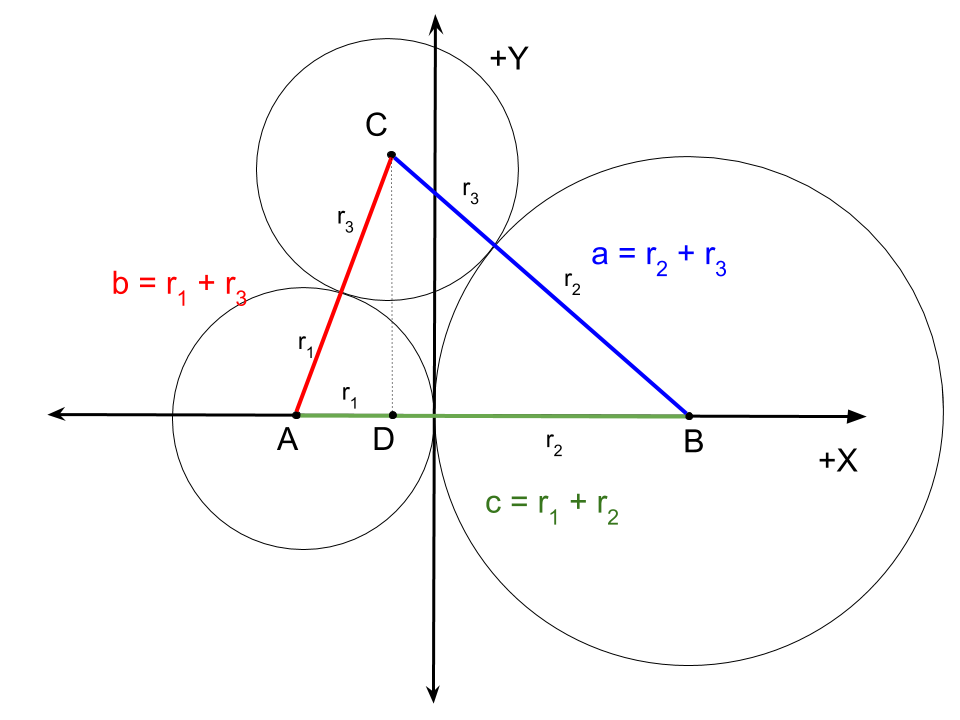
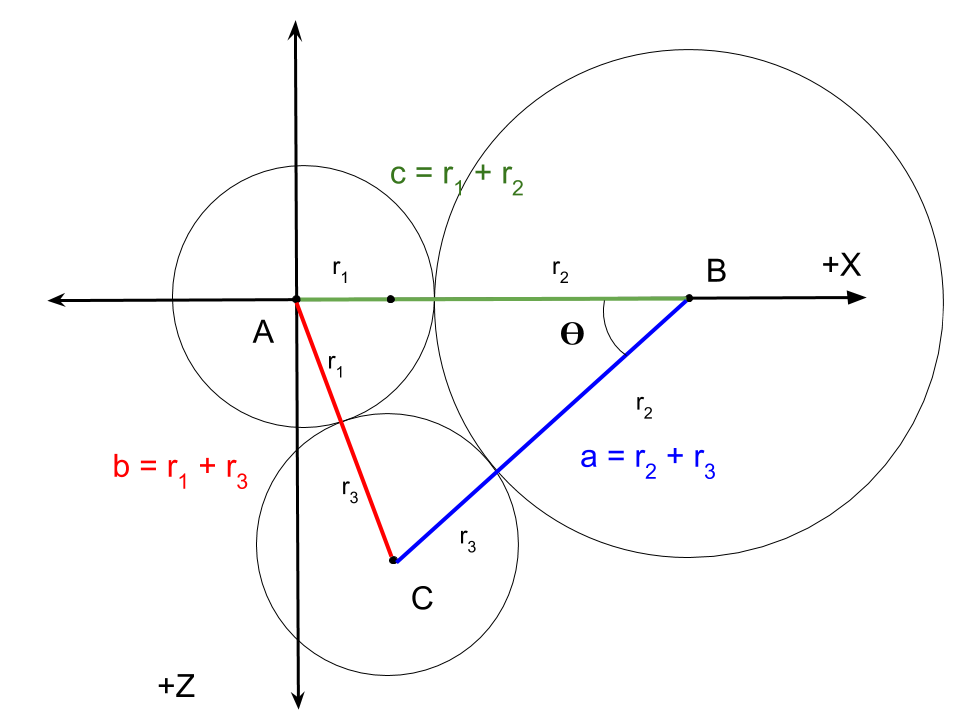
major cleanup

diff --git a/doc/softrobotmath.tex b/doc/softrobotmath.tex
@@ -73,7 +73,7 @@ Knowing the position of these circles is a valuable prelude to solving the three
 
 \begin{figure}
      \centering
-     \includegraphics[width=0.80\textwidth]{figures/ThreeTouchingCircles.png}
+     \includegraphics[width=0.5\textwidth]{figures/ThreeTouchingCircles.png}
      \caption{Three Touching Circles}
   \label{fig:Tangent}
 \end{figure}
@@ -103,27 +103,24 @@ Then we can use the cosine law to compute the angle $\angle ABC = \theta$:
 It is clear that once $\theta$ has been calculated:
 
 \begin{align}
- C_y  &= a\sin{\theta}
+ C_z  &= a\sin{\theta}
 \end{align}
 Allowing us to form a right triangle $\triangle ACD$ and use the Pythagorean theorem:
 \begin{align}
-  b^2  &= C_y^2 + (r_1-C_x)^2 \\
-  b^2 - C_y^2  &= (r_1-C_x)^2  \\
-  \sqrt{b^2 - C_y^2}  &= r_1-C_x  \\
-  C_x &= r_1 -  \sqrt{b^2 - C_y^2}
+  b^2  &= C_z^2 + C_x^2 \\
+  C_x   &= \sqrt{b^2 - C_z^2}  \\
 \end{align}
 
-\section{A Progression of Problems}
 
-Because we now believe we can model the main problem as the rotation of a plane tangent to a cone about the cone,
-there are a number of easier problems which may lead us to a solution:
-\begin{enumerate}
-\item In 2D, rotate a tangently line to a circle until it is coincient on an outside point.  That is, given the
-  center of a circle $C$, a radius $r$, another point $p$, what angular rotation (measured against $x$-axis) gives
-  the rotation that makes a line tangent to $C$ touch $p$?
-\item Given two spheres, what is the equation for the cone tangent to both?
-  \item Is the problem better thought of as the intersection of several spheres?
-  \end{enumerate}
+\subsection{Axis Angle of Cone Enveloping Two Spheres}
+
+The apex angle $\psi$ of a cone which envelopes (by being tangent to) two tangent
+circles of radii $r,s$, is:
+
+\begin{align}
+ \psi &= \arcsin{\frac{r s - r^2}{2 r^2 - r s + s^2}} \\
+\end{align}
+where $r < s$ without loss of generality.
 
 \section{Three Touching Spheres}
 
@@ -137,11 +134,15 @@ Such a device is sometimes called a parallel manipulator, of which a
 Stewart Platform\cite{wiki:stewart} (\url{https://en.wikipedia.org/w/index.php?title=Stewart_platform&oldid=898429010})
 is the best-known example.
 
-The fundamental action of a parallel manipulator is to tilt a plane or platform in a desired direction.
-Having developed the math for the three touching circles in the previous section, we now use it
-to find the normal of the a plane resting on the top of three spheres by choosing our
-coordinate system to the plane defined by the center points of the three spheres.
-In this coordinate system, the $z$-coordinate of the center of all spheres is $0$.
+The fundamental action of a parallel manipulator is to tilt a plane or platform in a desired direction based
+on changes in the radii of the spheres.
+Choosing the coordinate system of the $XZ$ plane through the center of the spheres greatly
+simplifies the derivations, because the center of the spheres always form tangent circles
+in this plane. The position of $A$ is fixed, $B$ is constrained to the $x$-axis, and
+$C$ is contrained to the $xz$-plane. The center of these circles in the $xz$ plane can be
+calculated from the radii independent of the tilt they induce.
+In this coordinate system, the $y$-coordinate of the center of all spheres is $0$.
+Furthermore, a cone tangent to two spheres has its axis and apex in the $xz$-plane.
 The projection of all three spheres into this plane produces three touching circles.
 We seek an expression for the normal of the plane of the tops of these spheres as a function
 purely of the three radii. Call this plane the {\em top} plane.
@@ -158,7 +159,7 @@ Nonetheless we seek an analytic solution.
 
 \begin{figure}
      \centering
-     \includegraphics[width=0.80\textwidth]{figures/StandardThreeSphereDiagram.png}
+     \includegraphics[width=0.99\textwidth]{figures/StandardThreeSphereDiagram.png}
      \caption{Three Touching Spheres}
   \label{fig:fixed}
 \end{figure}
@@ -178,10 +179,6 @@ Call the apex of the $AB$ cone $U$, the $AC$ cone $V$, and the $BC$ cone $W$.
 We assert that these three points form a line, which we call the {\em apex line}, in the $XZ$ plane and that this
 line is the intersection of the {\em tangent plane} touching all three spheres at a single point
 with the $XZ$ plane. We will use points $U$ and $V$ in our calculation.
-Let $\alpha$ be the half-angle of the $AB$ cone.
-
-It behooves us to name the intersection of the apex line with the $Z$ axis, $I_z$, so
-that we can use it in calculations.
 
 \subsection{Strategy}
 
@@ -190,8 +187,24 @@ Observe that this plane is tangent to all three cones.
 Observe that the $AB$ cone intersects
 the $A$ sphere in a circle on the surface of the $A$ perpendicular to and centered on the $X$ axis.
 
-A vector of length $r_A$ that begins pointing in the $X$ direction and is rotated counterclockwise
-about the $Z$-axis by $\pi/2 - \alpha$.
+The half-angle of a cone tangent to two tangent spheres is computed from the radii directly:
+\begin{align}
+  \theta_{ab} &= \arcsin{\frac{r_a - r_b}{r_a + r_b}} \\
+  \theta_{bc} &= \arcsin{\frac{r_b - r_c}{r_b + r_c}}
+\end{align}
+
+
+\begin{figure}
+     \centering
+     \includegraphics[width=0.5\textwidth]{figures/RotationMath.png}
+     \caption{Rotation Math}
+  \label{fig:rotation}
+\end{figure}
+
+A vector of length $r_A$ that is always rotated about the origin is always a point on the sphere.
+The first operation is move this vector perpendicular to the $AB$ cone.
+A vector $N$ in the $Y$ direction and rotated counterclockwise
+about the $Z$-axis by $\theta_{ab}$ is perpendicular to the $AB$ cone.
 
 However, we must rotate this vector $N$ about the $X$ axis by an unknown amount, $\gamma$, in order
 to orient the vector to line up properly with the desired tilt of the tangent plane despite not being a pure rotation about the $Z$ axis. Since this angle is computed in the $YZ$ plane, we compute a projection of the point $V$ into
@@ -199,76 +212,49 @@ that plane, forming a triangle in the $YZ$ plane.  Call this point $I_z$, the in
 of the apex line with the $Z$-axis. Let $h$ be the height of the intersection of the y-axis with the $AB$ cone.
 Then $\gamma$ is the angle we need to rotate the plane by so that it intersects with the $Z$-axis at a point, referred to as $I_z$. By basic geometry of simialr triangles, this is computed from the right triangle of the origin with $h$ and $I_z$.
 Having computed $\theta_{ab}$ and $\gamma$, these two degrees of rotation give us the plane tangent to all three spheres, and its corresponding tilt for our desired soft Stewart Platform.
-Note: we will change the symbol notation to U, V, and W
 
-\begin{align}
-  \overrightarrow{AB} &= \overrightarrow{A} - \overrightarrow{B} \\
-  \overrightarrow{BC} &= \overrightarrow{B} - \overrightarrow{C} \\
-  \overrightarrow{CA} &= \overrightarrow{C} - \overrightarrow{A} \\
-  \theta_{ab} &= \arcsin{\frac{r_a - r_b}{r_a + r_b}} \\
-  \theta_{bc} &= \arcsin{\frac{r_b - r_c}{r_b + r_c}} \\
-  \theta_{ca} &= \arcsin{\frac{r_a - r_c}{r_a + r_c}} \\
-  \overrightarrow{AB_{apex}} &= \overrightarrow{A} + \hat{\overrightarrow{AB}} \frac{r_a}{\sin{\theta_{ab}}} \\
-  \overrightarrow{BC_{apex}} &= \overrightarrow{B} + \hat{\overrightarrow{BC}} \frac{r_b}{\sin{\theta_{bc}}} \\
-  \overrightarrow{CA_{apex}} &= \overrightarrow{C} + \hat{\overrightarrow{CA}} \frac{r_c}{\sin{\theta_{ca}}} \\
-  \overrightarrow{U} &= \overrightarrow{AB_{apex}} \\
-  \overrightarrow{V} &= \overrightarrow{CA_{apex}} \\
-  \overrightarrow{W} &= \overrightarrow{BC_{apex}}
-\end{align}
-
-\begin{align}
- \gamma &= \arcsin{\frac{h}{I_z}}\\
-h &= U_x\tan{\theta_{ab}}\\
-I_z &= \frac{U_xV_z}{U_x - V_x}
-\end{align}
-
-
-\subsection{Axis Angle of Cone Enveloping Two Spheres}
-
-The apex angle of a cone which envlopes (by being tangent to) two tangent
-circles of radii $r_x,r_y$, is:
-
-\begin{align}
- z &= -2 \frac{r_x^2}{r_x - r_y}\\
- \psi &= 2 \arcsin{\frac{r_x}{z + r_y}} \\
- \psi &= 2 \arcsin{\frac{r_y - r_x}{r_x + r_y}}
-\end{align}
-where $r1 < r2$ without loss of generality.
-
-\subsection{Computation of $\gamma$ and $\theta$ }
-
-Compute these by considering the three cones that envelope the three spheres
-taken in a pair-wise fashion. Let $\theta_{xy}$ be the half-angle of the
-aperture of the cone that envelopes sphere $x$ and sphere $y$.
-
-Compute the apices of the three cones, naming the apex of the cone that
-envelopes sphere $X$ and sphere $Y$ $\overrightarrow{XY_{apex}}$. It is interesting
-to note that the three apices lie on a line, which is where the normal plane
-intersects the $XZ$-plane where the center of all the spheres lie.
-
-Let $Z'$ be the $z$ value of the intersection of this line with $z$-axis.
-
-Let the normal of the plane tangent to the three spheres be generated
-by a (negative) rotation $\theta_{AB}$ of the $[0,1,0]$ vector about the $Z$-axis followed by a rotation $\gamma$
-about the $X$-axis, as depicted in Figure \ref{fig:rotation}.
-
-\begin{figure}
-     \centering
-     \includegraphics[width=0.80\textwidth]{figures/RotationMath.png}
-     \caption{Rotation Math}
-  \label{fig:rotation}
-\end{figure}
+Vectors $\overrightarrow{U}, \overrightarrow{V}, $ and $  \overrightarrow{W}$ represent the vectors from the center of the spheres $A$, $B$, and $C$ to
+the apices of the cones tangent to $A$ and $B$, $B$ and $C$, and $C$ and $A$ respectively.
 
 
 \begin{align}
-  \psi &= \arccos{\hat{\overrightarrow{CA}}_z } \text{(angle of CA against the z axis)} \\
-  L &= \| A - CA_{apex} \| \\
-  Z' &= L \cos{\psi} \frac{U_x}{U_x-V_x} \\
-  \gamma &= \frac{\pi}{2} - \arccos{\frac{r_a}{Z'}}\\
-  \gamma &= \arcsin{\frac{r_a}{Z'}};
+  \overrightarrow{U} &= \overrightarrow{A} + \hat{\overrightarrow{AB}} \frac{r_a}{\sin{\theta_{ab}}} \\
+  \overrightarrow{V} &= \overrightarrow{B} + \hat{\overrightarrow{BC}} \frac{r_b}{\sin{\theta_{bc}}} \\
 \end{align}
 
-\section{Thing to Research}
+The point $H$ is the intesection of the $AB$ cone with the $y$ axis.
+This is right triangle of the origin with the points $U$ and $H$. (The hypotenuse
+of this triangle is $\overrightarrow{HU}$, and side adjacent to $\theta_{AB}$ is $\overrightarrow{OU}$.)
+It is computed by projecting the contact point of the top plane in the $xy$-plane
+onto the $xz$-plane. This allows $\gamma$ to be computed as a pure rotation
+about the $x$-axis.
+
+\begin{align}
+h_y &= U_x\tan{\theta_{ab}}\\
+z' &= \frac{U_xV_z}{U_x - V_x} \\
+\gamma &= \arcsin{\frac{h}{z'}}
+\end{align}
+
+
+
+
+
+
+
+
+
+\bibliographystyle{acm}
+
+\bibliography{softrobotmath}
+
+
+\end{document}
+
+
+  In 1881, the problem of computing the plane tangent to three spheres was set as an exercise in a textbook, {em Practical Solid Geometry}\cite{payne1881}. We have solved this problem in JavaScript, producing an interactive, browser-based web page that dynamically solves the problem. All of the code is released under the GNU Public License. We propose constructing a ``soft'' Stewart platform using this theory which  allows us to control the inclination of two planes with a very simple  mechanism powered only by phase change of a liquid to a gas or by pneumatics. Future work includes computing the Jacobian of a ``tentacle'' formed  by stringing together many such Stewart Platforms, thus providing a  theoretical model for a simple, inexpensive, ``soft'' tentacle.  Such a tentacle can be scaled down nicely for {\em in vivo} medical  applications such as endoscopy and arterial catheterization.
+
+
+  \section{Thing to Research}
 
 Idea: It may be possible to solve for the support points as the intersection of cones\cite{shene1994lower}.
 
@@ -283,14 +269,10 @@ https://math.stackexchange.com/questions/2101056/how-to-compute-the-formula-of-c
 https://math.stackexchange.com/questions/1129402/solving-a-common-tangent-problem-using-matrices
 
 
-
-
-\bibliographystyle{acm}
-
-\bibliography{softrobotmath}
-
-
-\end{document}
-
-
-  In 1881, the problem of computing the plane tangent to three spheres was set as an exercise in a textbook, {em Practical Solid Geometry}\cite{payne1881}. We have solved this problem in JavaScript, producing an interactive, browser-based web page that dynamically solves the problem. All of the code is released under the GNU Public License. We propose constructing a ``soft'' Stewart platform using this theory which  allows us to control the inclination of two planes with a very simple  mechanism powered only by phase change of a liquid to a gas or by pneumatics. Future work includes computing the Jacobian of a ``tentacle'' formed  by stringing together many such Stewart Platforms, thus providing a  theoretical model for a simple, inexpensive, ``soft'' tentacle.  Such a tentacle can be scaled down nicely for {\em in vivo} medical  applications such as endoscopy and arterial catheterization.
+We used this derivation with Wolfram Alpha:
+\begin{align}
+ z &= -2 \frac{r_x^2}{r_x - r_y}\\
+ \psi &= 2 \arcsin{\frac{r_x}{z + r_y}} \\
+ \psi &= 2 \arcsin{\frac{r_x}{-2 \frac{r_x^2}{r_x - r_y} + r_y}} \\
+ \psi &= \arcsin{\frac{r_x r_y - r_x^2}{2 r_x^2 - r_x r_y + r_y^2}} \\
+\end{align}
